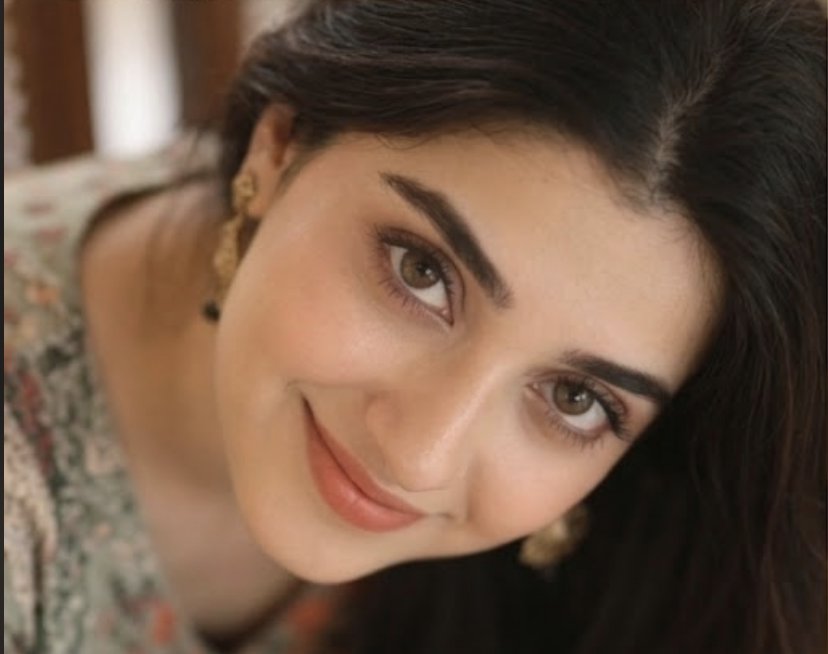
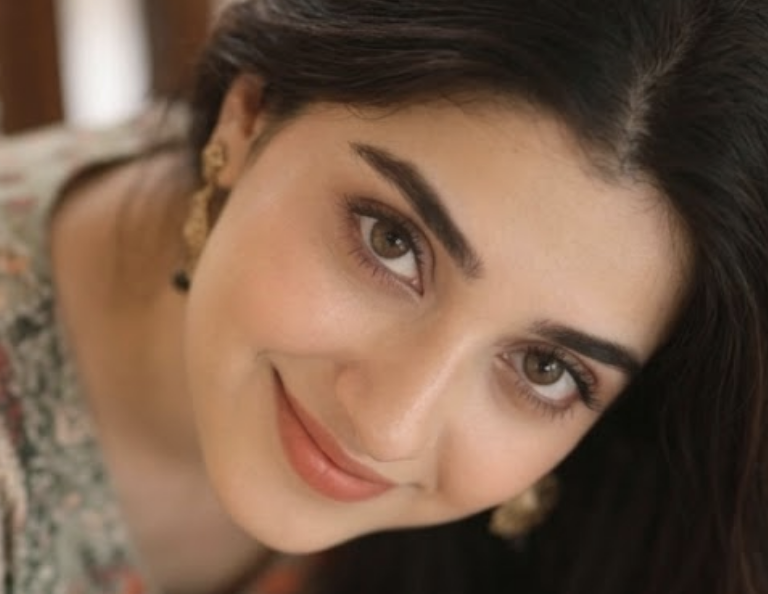
Switch image generation to Gemini nano-banana and improve realism
- Replace gpt-image-1 with gemini-2.5-flash-image (refs passed as PIL images, 2:3 aspect)
- Rewrite prompt: positive skin-texture descriptions instead of negative lists, remove contradictions
- Add phone-realism post-processing (edge softening, sensor noise, JPEG q86)
- Clean reference photos: crop border junk, remove watermark from 4.png
- Drop openai from requirements and workflow

diff --git a/main.py b/main.py
@@ -1,25 +1,24 @@
 import os
 import random
 import json
-import base64
 import requests
 import io
 from PIL import Image
 from datetime import datetime
 from dotenv import load_dotenv
 from google import genai
-import openai
+from google.genai import types
 from config import LOCATIONS, DRESS_STYLES, SETTINGS
 
 load_dotenv()
 
 GEMINI_API_KEY = os.getenv("GEMINI_API_KEY")
-OPENAI_API_KEY = os.getenv("OPENAI_API_KEY")
 BUFFER_API_KEY = os.getenv("BUFFER_API_KEY")
 BUFFER_CHANNEL_ID = os.getenv("BUFFER_CHANNEL_ID")
 
 gemini = genai.Client(api_key=GEMINI_API_KEY)
-openai_client = openai.OpenAI(api_key=OPENAI_API_KEY)
+
+IMAGE_MODEL = "gemini-2.5-flash-image"
 
 REFERENCE_PHOTOS = ["1.png", "2.png", "3.png", "4.png"]
 
@@ -51,48 +50,49 @@ mutation createPost($input: CreatePostInput!) {
 
 
 def load_all_reference_photos():
-    refs = []
-    for path in REFERENCE_PHOTOS:
-        img = Image.open(path).convert("RGBA")
-        buf = io.BytesIO()
-        img.save(buf, format="PNG")
-        buf.seek(0)
-        refs.append((f"ref_{path}", buf.getvalue(), "image/png"))
-    return refs
+    return [Image.open(path).convert("RGB") for path in REFERENCE_PHOTOS]
 
 
 def generate_model_image(location, dress, setting, activity, ref_photos):
     prompt = (
-    f"I am providing 4 reference photos of the same real person. "
-    f"Generate a new photograph of this exact person while preserving her facial identity. "
-    f"Use only the uploaded reference photos to determine her appearance. "
-    f"Do not redesign, reinterpret, or alter her face in any way. "
-    f"Keep her facial structure, eyes, eyebrows, nose, lips, jawline, hairline, hairstyle, skin tone, and age exactly the same as shown in the reference photos. "
-    f"Only change the clothing, pose, and environment. "
-    f"She is wearing {dress['description']}, {dress['color']} color with {dress['pattern']}. "
-    f"She is {activity} at {location['name']}, Pakistan. "
-    f"Time of day: {setting}. "
-    f"Captured on an iPhone 16 Pro using the main camera in standard Photo mode. "
-    f"Natural handheld framing with realistic smartphone processing. "  
-    f"The scene should look like a real everyday location with natural surroundings and authentic details. "
-    f"The photograph should appear to have been taken casually on a modern smartphone. "
-    f"Use natural lighting with realistic shadows and accurate colors. and also make sure the skin tone is not very clean which gives a look its an AI generated image. "
-    f"Preserve natural skin texture with slight smartphone camera noise. "
-    f"No beauty filters, skin smoothing, airbrushing, glamour retouching, studio lighting, HDR, cinematic color grading, lens flare, bloom, or artificial lighting effects. "
-    f"The final image should be indistinguishable from a genuine smartphone photograph of the same person in a different place and outfit."
-)
-
-    result = openai_client.images.edit(
-        model="gpt-image-1",
-        image=ref_photos,
-        prompt=prompt,
-        size="1024x1536",
-        quality="high",
-        n=1,
+        f"I am providing 4 reference photos of the same person. "
+        f"Generate a new photograph of this exact person, preserving her facial identity precisely: "
+        f"same facial structure, eyes, eyebrows, nose, lips, jawline, hairline, hairstyle, skin tone, and age as in the reference photos. "
+        f"Only the clothing, pose, and environment change. "
+        f"She is wearing {dress['description']}, {dress['color']} color with {dress['pattern']}. "
+        f"She is {activity} at {location['name']}, Pakistan. "
+        f"Time of day: {setting}. "
+        f"A casual candid photo taken on an iPhone 16 Pro main camera in standard Photo mode, natural handheld framing, "
+        f"framed so her face is clearly visible and detailed. "
+        f"Render her skin the way a phone camera actually captures it: visible pores, faint vellus hair on the cheeks, "
+        f"a slight natural oil sheen on the nose and forehead, subtle under-eye texture, a few flyaway hairs, "
+        f"mildly uneven skin tone, and light smartphone sensor noise. "
+        f"Natural ambient lighting with realistic shadows, slightly imperfect white balance, true-to-life colors. "
+        f"The scene is a real everyday location with natural surroundings and authentic details."
     )
 
-    img_bytes = base64.b64decode(result.data[0].b64_json)
-    return img_bytes
+    response = gemini.models.generate_content(
+        model=IMAGE_MODEL,
+        contents=ref_photos + [prompt],
+        config=types.GenerateContentConfig(
+            image_config=types.ImageConfig(aspect_ratio="2:3"),
+        ),
+    )
+
+    for part in response.candidates[0].content.parts:
+        if getattr(part, "inline_data", None) is not None:
+            return part.inline_data.data
+    raise RuntimeError(f"Model returned no image: {response.candidates[0].content}")
+
+
+def add_phone_realism(img):
+    # Soften over-sharp AI edges and add faint sensor noise so the
+    # image reads like a real smartphone photo
+    w, h = img.size
+    img = img.resize((int(w * 0.92), int(h * 0.92)), Image.LANCZOS)
+    img = img.resize((w, h), Image.LANCZOS)
+    noise = Image.effect_noise((w, h), 14).convert("RGB")
+    return Image.blend(img, noise, 0.025)
 
 
 def upload_image_to_fal(img_bytes, filename):
@@ -100,9 +100,10 @@ def upload_image_to_fal(img_bytes, filename):
     import tempfile, os
     tmp = tempfile.NamedTemporaryFile(suffix=".jpg", delete=False)
     try:
-        # Convert to JPEG before uploading
         img = Image.open(io.BytesIO(img_bytes)).convert("RGB")
-        img.save(tmp.name, format="JPEG", quality=95)
+        img = add_phone_realism(img)
+        # phone-typical JPEG compression, not pristine quality
+        img.save(tmp.name, format="JPEG", quality=86)
         url = fal_client.upload_file(tmp.name)
         return url
     finally:
